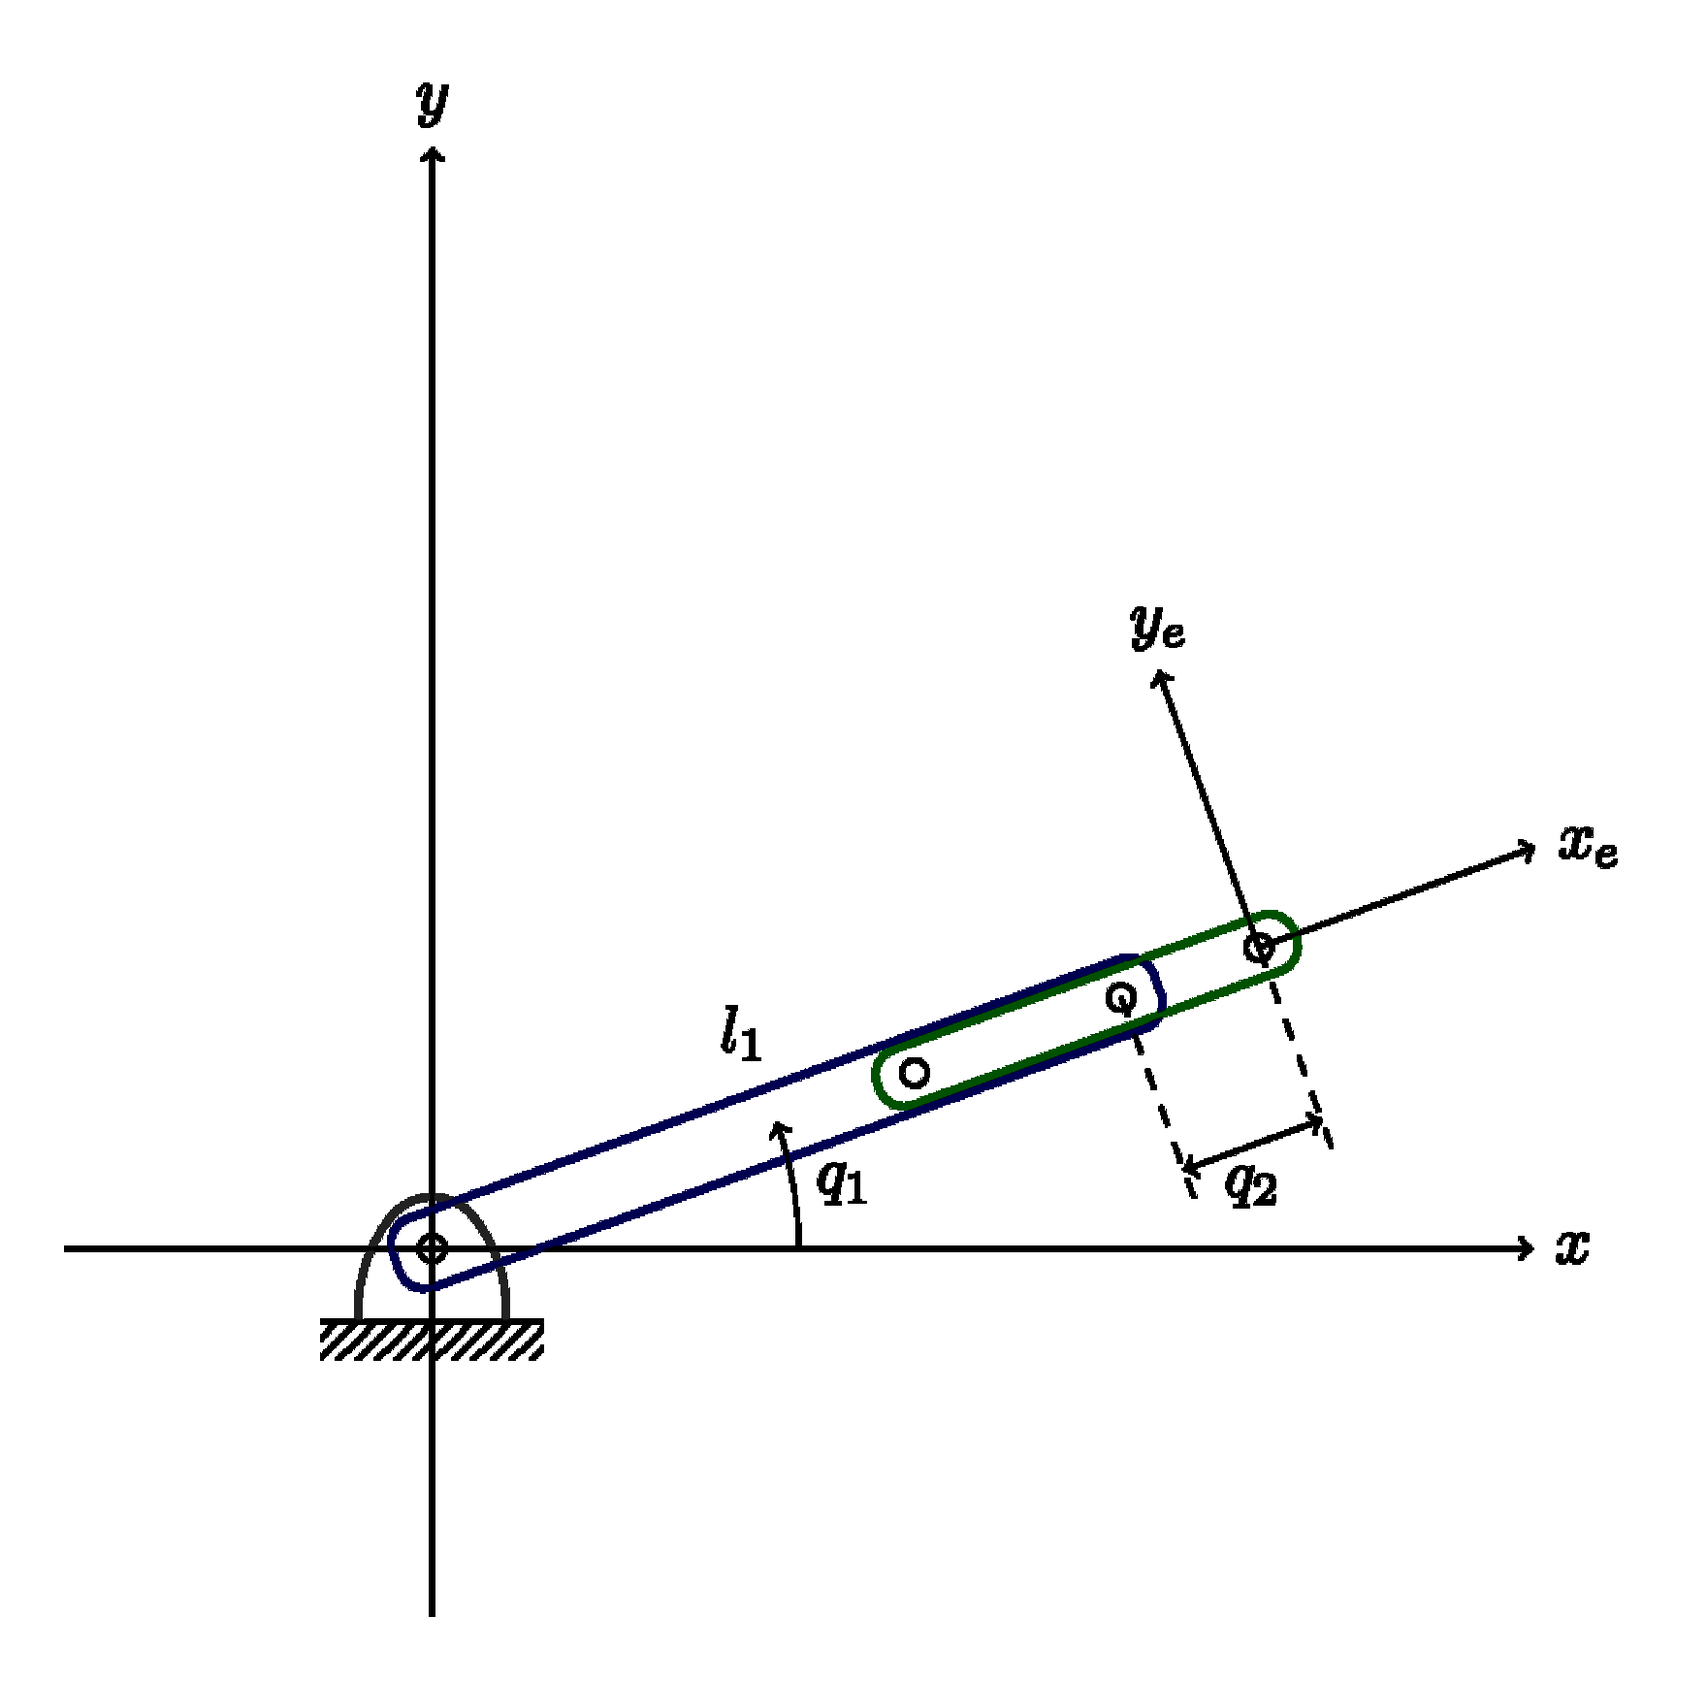
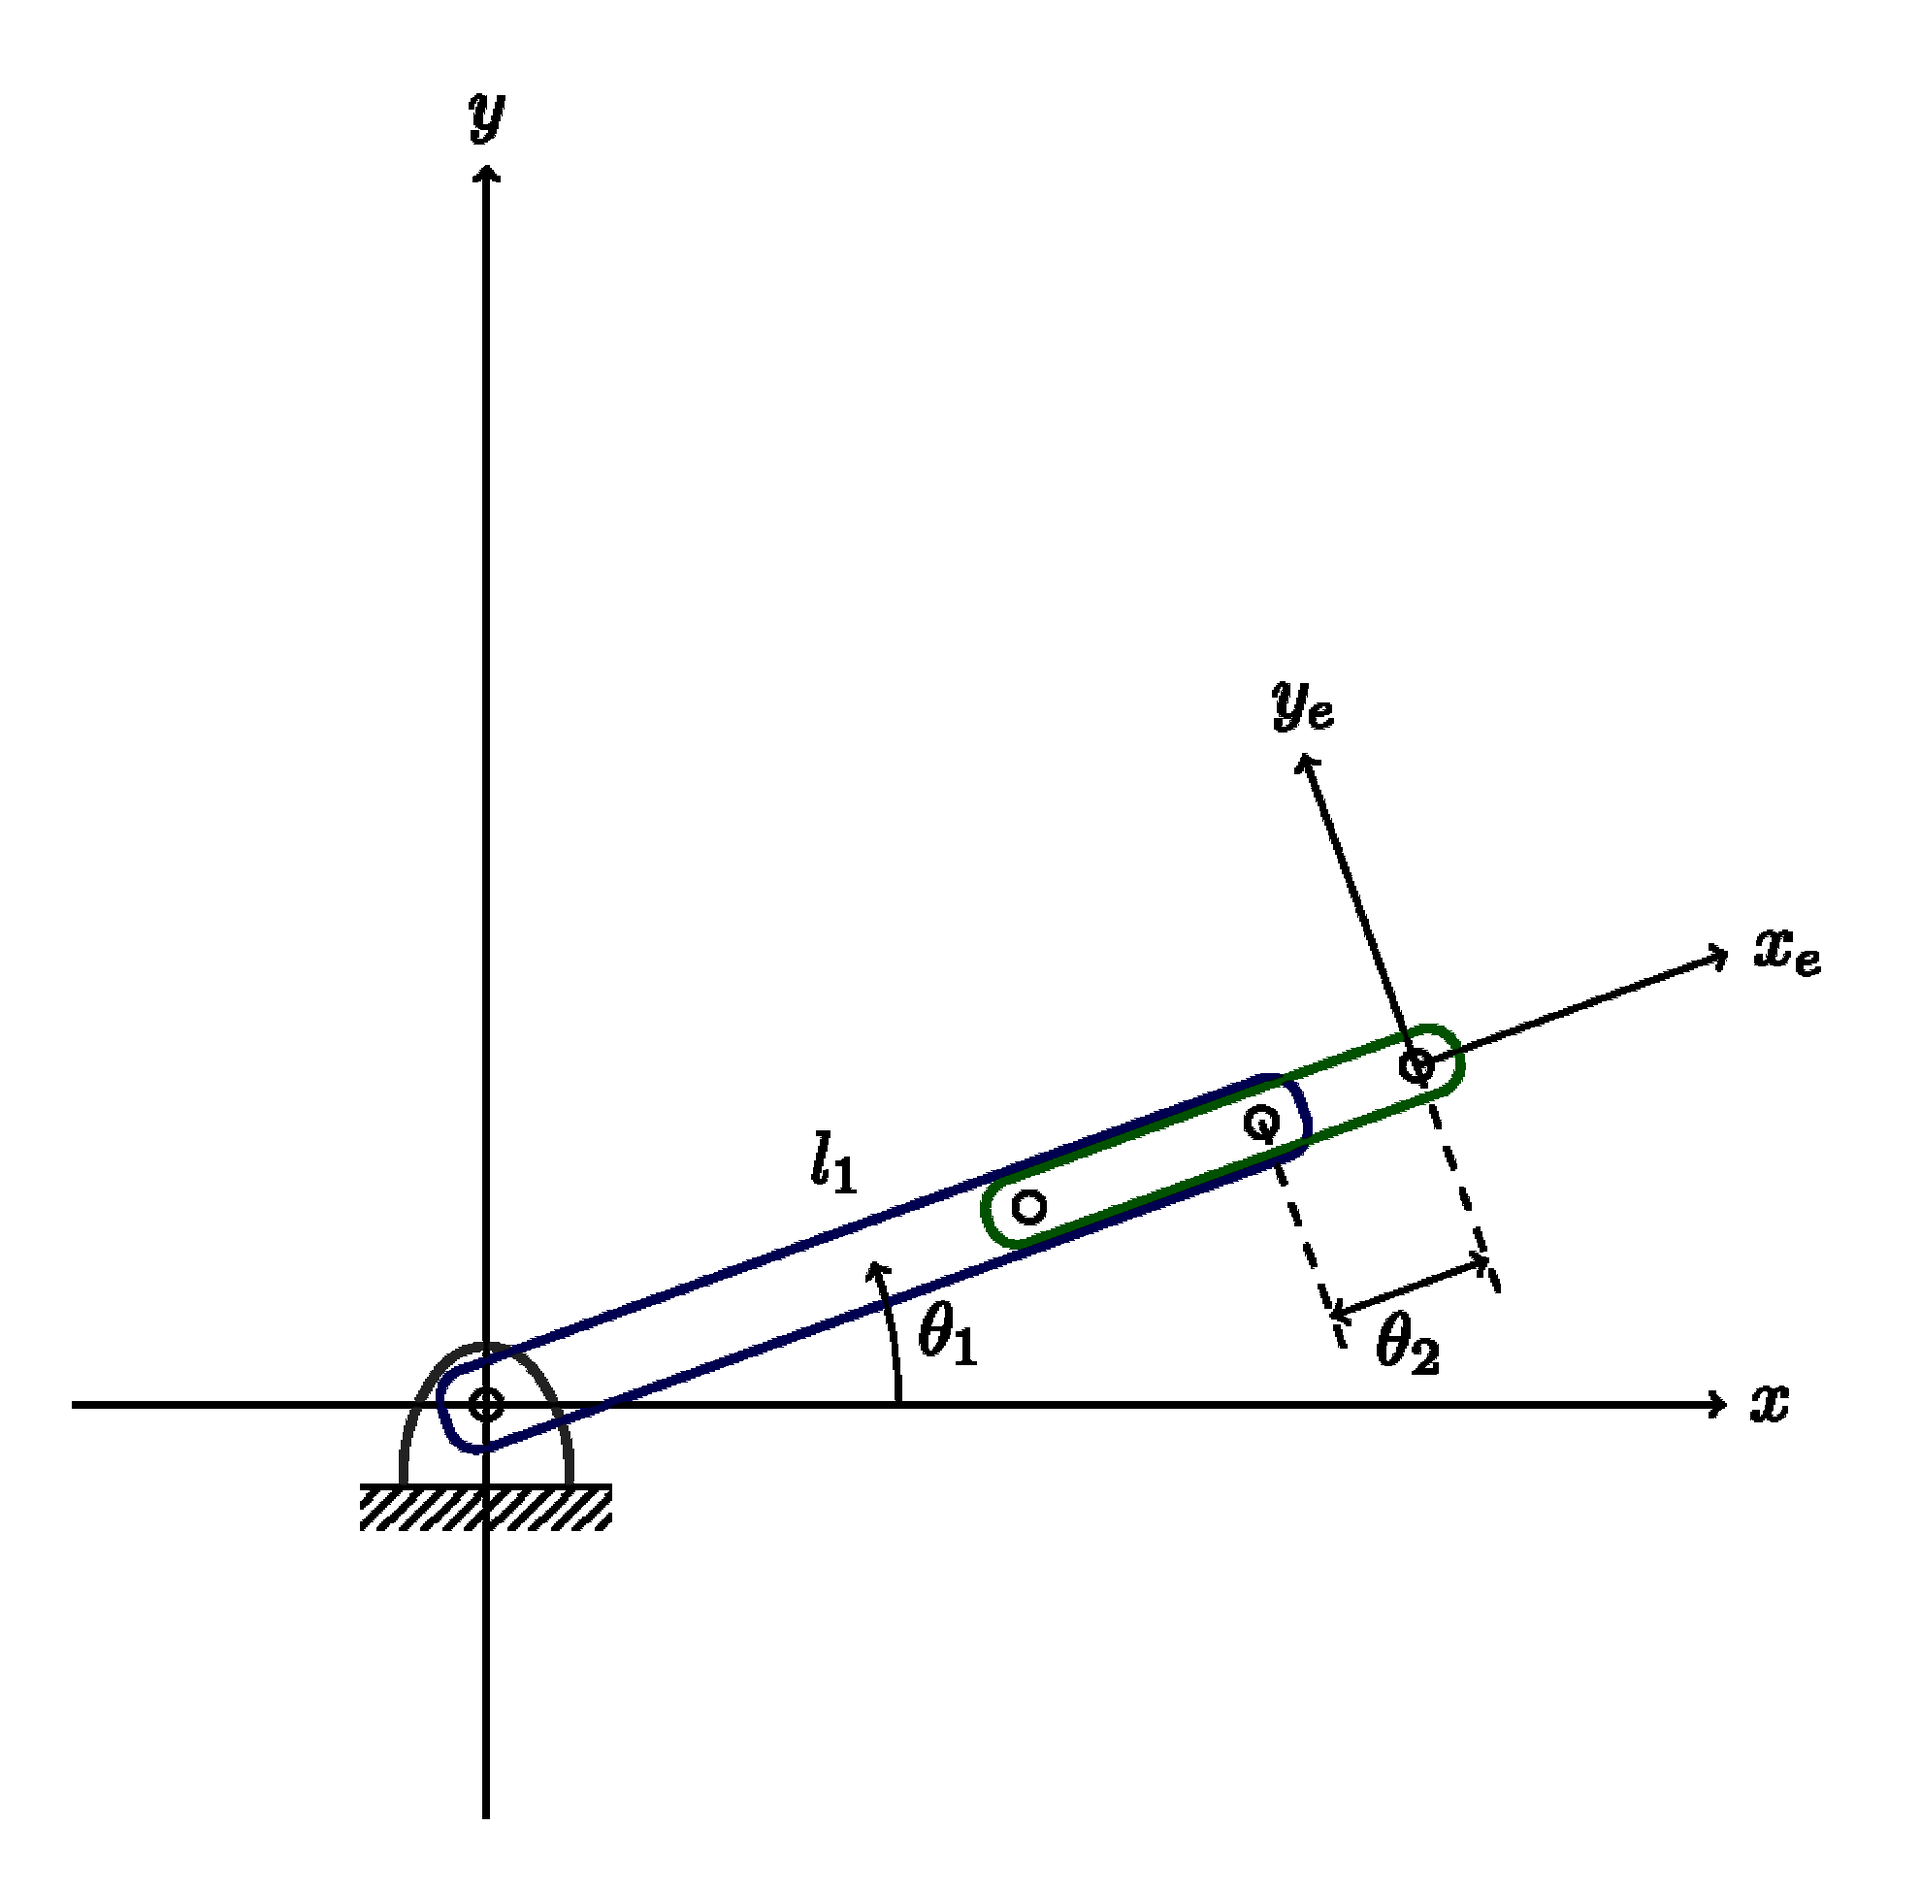
Changed names of variables to theta

diff --git a/figures/2d-2dof-revolute.tex b/figures/2d-2dof-revolute.tex
@@ -52,11 +52,11 @@
 
     \end{scope}
 
-      \draw[->] (\Lone + 2*\Ltwo/3, 0) arc[radius=2*\Ltwo/3, start angle=0, end angle=\qtwo] node[pos=0.5, right] {$q_2$};
+      \draw[->] (\Lone + 2*\Ltwo/3, 0) arc[radius=2*\Ltwo/3, start angle=0, end angle=\qtwo] node[pos=0.5, right] {$\theta_2$};
 
   \end{scope}
 
-  \draw[->] (2*\Lone/3, 0) arc[radius=2*\Lone/3, start angle=0, end angle=\qone] node[pos=0.5, right] {$q_1$};
+  \draw[->] (2*\Lone/3, 0) arc[radius=2*\Lone/3, start angle=0, end angle=\qone] node[pos=0.5, right] {$\theta_1$};
 
 
 \end{tikzpicture}

diff --git a/figures/2d-2dof-revolute-prismatic.tex b/figures/2d-2dof-revolute-prismatic.tex
@@ -45,7 +45,7 @@
 
     \draw[dashed] (\Lone, 0) to (\Lone, -0.6);
     
-    \draw[<->] (\Lone, -0.5) -- node[below] {$q_2$} ++(\qtwo, 0);
+    \draw[<->] (\Lone, -0.5) -- node[below] {$\theta_2$} ++(\qtwo, 0);
 
     \begin{scope}[xshift=\Ltwostart cm,]
       
@@ -63,7 +63,7 @@
     
   \end{scope}
 
-  \draw[->] (2*\Lone/4, 0) arc[radius=2*\Lone/4, start angle=0, end angle=\qone] node[pos=0.5, right] {$q_1$};
+  \draw[->] (2*\Lone/4, 0) arc[radius=2*\Lone/4, start angle=0, end angle=\qone] node[pos=0.5, right] {$\theta_1$};
 
 
 \end{tikzpicture}
